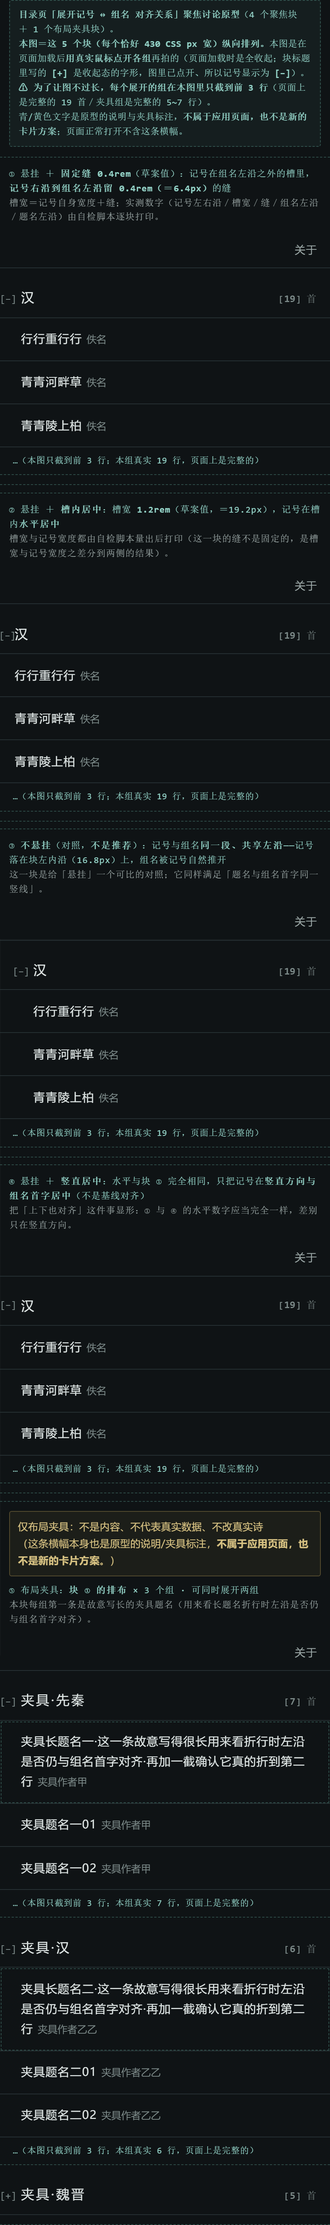
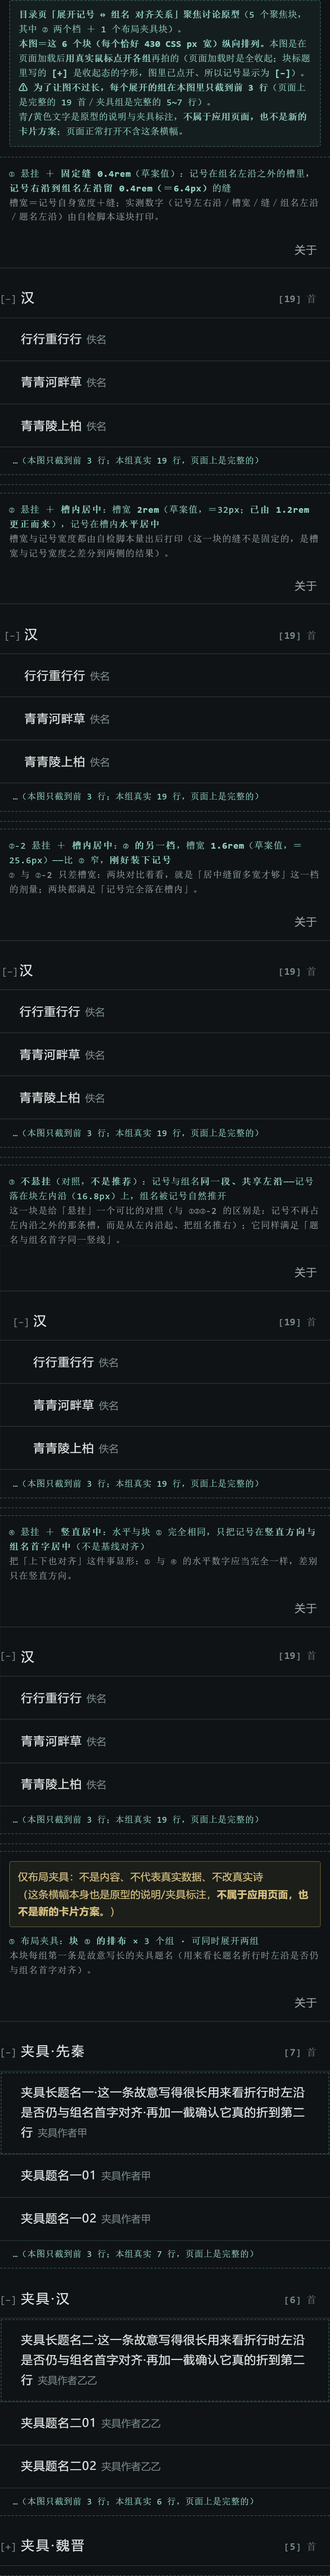
原型返修(记号↔组名对齐): ② 槽宽按负责人决定更正 1.2rem→2rem(1.2rem 比记号宽 21.13px 还窄、实测缝为负=贴住)+另出 1.6rem 档；md 并列两种悬挂口径+改指归档路径；重出 860x6702 图；自检 96 PASS/失败 0
- ② 槽 2rem=32px：记号文字范围[5.44…26.56] 居中(中心=槽中心16) 缝 5.44px(笔画 7.57) 记号完全落在槽内
- ②-2 槽 1.6rem=25.6px(刚好装下)：文字范围[2.23…23.36] 缝 2.23px(笔画 4.37)；两块缝差 3.21=槽宽差的一半 ⇒ 只差槽宽
- 更正来历如实写在 页面/脚本/md 三处：1.2rem 那版实测缝是负的(笔画 1.16px)，不能说成「测得缝更大」
- md §2 并列口径 A(本页：槽从块左沿量起、组名左沿=槽右沿 ⇒ 记号贴屏幕左沿、靠真机页边留白承接)与口径 B(组名钉在左内沿 16.8 ⇒ 记号排版左沿 -10.73px 会跑到屏幕外~10.7px，需左内沿/页边留白 >=27.5px)
- md §8 指向水平轮的路径改为归档路径 items/app-ui/history/round-2026-10-15-hub-horizontal/(归档提交 53ad6c8)，未动归档内任何文件
- 自检新增/改实：六块几何逐项打印、②/②-2「居中+完全落槽内+缝为正」、缝差=槽宽差一半；CHROME_BIN 指错仍 exit2
- 写入范围只有 items/app-ui/prototypes/ 本任务 4 个文件

diff --git a/items/app-ui/prototypes/q-hub-align.html b/items/app-ui/prototypes/q-hub-align.html
@@ -53,7 +53,9 @@
   --block-w: 430px;          /* 验收宽度：真实 430 CSS px（移动口径），不是草案、是任务书给的口径 */
   --edge-x: 1.05rem;         /* 草案值：块的左右内沿（取令牌 --row-pad 的横向分量；「关于」与诗行右沿都落在它上面） */
   --seam-a: 0.4rem;          /* 草案值：块 ① 的固定缝（记号右沿 → 组名左沿）＝ 6.4px */
-  --slot-b: 1.2rem;          /* 草案值：块 ② 的槽宽（记号在槽内水平居中）＝ 19.2px */
+  --slot-b: 2rem;            /* 草案值（**已更正**）：块 ② 的槽宽＝32px —— 上一版这里是 1.2rem＝19.2px，比记号排版宽（21.13px）还窄，实测缝为负、居中后贴住组名，故按负责人 2026-10-15 的决定改实 */
+  --slot-b-alt: 1.6rem;      /* 草案值（② 的另一档）：块 ②-2 的槽宽＝25.6px（刚好装下 21.13px 的记号，两侧各≈2.2px） */
+  --slot-here: 0px;          /* 每个块自己的「居中槽宽」，由 data-slot 选：b2 → var(--slot-b)，b2-2 → var(--slot-b-alt) */
   --inline-gap: 0.35rem;     /* 草案值：块 ③（不悬挂）记号与组名之间的段内间距＝ 5.6px */
   --name-x: 0px;             /* 【参照系】组名左沿相对块左沿的实测偏移，由页面脚本量出后写回（每块各不相同） */
 }
@@ -248,11 +250,13 @@ html[data-shot="1"] .glist > .poemrow:nth-child(n+4) { display: none; }
  */
 .hub[data-mark="hang-gap"] .ghead { padding-left: 0; }
 .hub[data-mark="hang-gap"] .gmark { margin-right: var(--seam-a); }
-/* ② 悬挂 + 槽内居中：槽宽恒为 --slot-b，记号在槽内水平居中（缝＝槽宽与记号宽度之差的一半）。
+/* ② 悬挂 + 槽内居中：槽宽由 --slot-here 给出（块 ② 2rem、块 ②-2 1.6rem），记号在槽内水平居中。
  *   用 flex 居中（而不是 text-align:center）：槽比记号窄时 text-align 会退化成起点对齐，居中就没被表达出来；
  *   flex 的居中在溢出时仍然对称地把记号居中，这一块才是真的「槽内居中」（代价是记号会向槽外两侧溢出）。 */
 .hub[data-mark="hang-center"] .ghead { padding-left: 0; }
-.hub[data-mark="hang-center"] .gmark { width: var(--slot-b); margin-right: 0; display: flex; justify-content: center; }
+.hub[data-mark="hang-center"] .gmark { width: var(--slot-here); margin-right: 0; display: flex; justify-content: center; }
+.hub[data-slot="b"] { --slot-here: var(--slot-b); }
+.hub[data-slot="b-alt"] { --slot-here: var(--slot-b-alt); }
 /* ③ 不悬挂（对照）：记号在块左内沿上、与组名同一段，段内间距 --inline-gap。 */
 .hub[data-mark="inline"] .ghead { padding-left: var(--edge-x); }
 .hub[data-mark="inline"] .gmark { margin-right: var(--inline-gap); }
@@ -281,7 +285,7 @@ html[data-shot="1"] .glist > .poemrow:nth-child(n+4) { display: none; }
 <div class="wrap">
   <div class="phead">
     <p class="ptag">讨论原型 · 不是产品实施 · 不是发布 · 不是已采纳规格</p>
-    <h1>目录页「展开记号 ↔ 组名 <b>对齐关系</b>」聚焦讨论原型 —— 4 个聚焦块 ＋ 1 个布局夹具块</h1>
+    <h1>目录页「展开记号 ↔ 组名 <b>对齐关系</b>」聚焦讨论原型 —— 5 个聚焦块（其中 ② 两个档）＋ 1 个布局夹具块</h1>
     <p>这一页只回答<b>一个问题</b>：<b>记号与组名怎么对齐才不显得「没对齐」？</b>四个聚焦块<b>并列</b>、不排序、不衬托，<b>没有推荐项</b>；<b>选某一块 ≠ 采纳整页规格</b>。</p>
     <p><b>本页固定不变（不在这里重问）：</b></p>
     <ul>
@@ -293,28 +297,33 @@ html[data-shot="1"] .glist > .poemrow:nth-child(n+4) { display: none; }
       <li>信息只有：<b>组名＋数量</b>、<b>诗题＋作者</b>。🚫 不出现：搜索／应用名／笔记标记／题名预览／状态位／版本号。</li>
       <li>四块的<b>记号字号与字距统一</b>（等宽 0.8rem、不设字距）—— 这样量出来的「缝」才是真实可见的缝，不是字距的空白。</li>
     </ul>
-    <p><b>四个聚焦块各变什么</b>（其余一切相同）：① 悬挂＋<b>固定缝 0.4rem</b>（草案值）· ② 悬挂＋<b>槽内居中</b>（槽宽 1.2rem，草案值）· ③ <b>不悬挂</b>（对照，不是推荐）· ④ 悬挂＋<b>竖直居中</b>（水平与 ① 完全相同，只改竖直关系）· ⑤ 用 ① 的排布 × 3 个组的<b>布局夹具</b>。</p>
+    <p><b>五个聚焦块各变什么</b>（其余一切相同）：① 悬挂＋<b>固定缝 0.4rem</b>（草案值）· ② 悬挂＋<b>槽内居中</b>（槽宽 2rem，草案值）· ②-2 悬挂＋<b>槽内居中</b>（槽宽 1.6rem，草案值，即 ② 的另一档——刚好装下记号）· ③ <b>不悬挂</b>（对照，不是推荐）· ④ 悬挂＋<b>竖直居中</b>（水平与 ① 完全相同，只改竖直关系）· ⑤ 用 ① 的排布 × 3 个组的<b>布局夹具</b>。</p>
+    <p class="pnote">⚠ <b>一处更正（负责人选值偏窄，已改实）</b>：② 的槽宽上一版取的是 <b>1.2rem（19.2px）</b>，它比记号自身的排版宽（<b>21.13px</b>）<b>还窄</b> ⇒ 实测上「居中后缝自然变大」<b>不成立</b>（缝 −0.97px、实心笔画 1.16px，看图是 <code>[−]汉</code> 贴住）。本轮按负责人 2026-10-15 的决定改为 <b>2rem</b>，并另出 <b>1.6rem</b> 一档；两个槽宽都大于记号宽，「居中且留缝」才真正成立（实测数字见同目录 <code>q-hub-align.md</code>）。</p>
     <p><b>本页对「悬挂／不悬挂」的实现口径</b>（写清，免得误读）：<b>悬挂</b>＝记号的槽<b>从块左沿（0）量起</b>、<b>组名左沿 = 槽右沿</b>，所以记号落在内容左内沿（<code>--edge-x</code>＝16.8px）<b>之外</b>；<b>不悬挂</b>＝记号落在<b>块左内沿上</b>（与「关于」同一条竖线）、组名被记号自然推开（块 ③ 的对照）。两种口径下诗目都是「题名左沿 = 组名左沿」。</p>
-    <p>间距数字：<b>块宽 430 CSS px</b>（任务书给的验收口径，不是草案）；<code>--edge-x 1.05rem</code>（沿用令牌 <code>--row-pad</code> 的横向分量）、<code>--seam-a 0.4rem</code>、<code>--slot-b 1.2rem</code>、<code>--inline-gap 0.35rem</code> 是<b>草案值</b>（规范里没有这些值）。四块的实测数字由自检脚本打印，也写在本页同目录的 <code>q-hub-align.md</code> 里。</p>
-    <p>行为（四块＋夹具块一致）：首次进入<b>全部收起</b>（单组也收起）· <b>整个组头可点</b>（组名／空白／数量／记号任一处）· 各组<b>独立</b>展开（<b>可同时展开两组</b>，不是手风琴）。每块都可点，都能看到<b>收起与展开两种状态</b>。</p>
+    <p>间距数字：<b>块宽 430 CSS px</b>（任务书给的验收口径，不是草案）；<code>--edge-x 1.05rem</code>（沿用令牌 <code>--row-pad</code> 的横向分量）、<code>--seam-a 0.4rem</code>、<code>--slot-b 2rem</code>、<code>--slot-b-alt 1.6rem</code>、<code>--inline-gap 0.35rem</code> 是<b>草案值</b>（规范里没有这些值）。五个聚焦块＋夹具块的实测数字由自检脚本打印，也写在本页同目录的 <code>q-hub-align.md</code> 里。</p>
+    <p>行为（五个聚焦块＋夹具块一致）：首次进入<b>全部收起</b>（单组也收起）· <b>整个组头可点</b>（组名／空白／数量／记号任一处）· 各组<b>独立</b>展开（<b>可同时展开两组</b>，不是手风琴）。每块都可点，都能看到<b>收起与展开两种状态</b>。</p>
     <p class="pnote">⚠ 这一页上的说明文字 —— 含本段、下面每个块的标题、以及夹具横幅 —— <b>是原型的说明/夹具标注，不属于应用页面，也不是新的卡片方案。</b></p>
   </div>
   <section class="psection" id="blocks">
-    <h2>【本轮的 4 个聚焦块 ＋ 1 个布局夹具块】① 悬挂＋固定缝 ② 悬挂＋槽内居中 ③ 不悬挂（对照） ④ 悬挂＋竖直居中 ⑤ 夹具</h2>
-    <p class="sub">五块各自独立、都在真实 430 CSS px 宽下渲染，都可点（首态全收起）。① ② ③ ④ 用<b>真实内容</b>（汉·19 首），⑤ 用<b>多组夹具</b>。</p>
+    <h2>【本轮的 5 个聚焦块（② 两个档）＋ 1 个布局夹具块】① 悬挂＋固定缝 ② 悬挂＋槽内居中（2rem） ②-2 悬挂＋槽内居中（1.6rem） ③ 不悬挂（对照） ④ 悬挂＋竖直居中 ⑤ 夹具</h2>
+    <p class="sub">六块各自独立、都在真实 430 CSS px 宽下渲染，都可点（首态全收起）。①②②-2③④ 用<b>真实内容</b>（汉·19 首），⑤ 用<b>多组夹具</b>。</p>
     <div class="shotframe" data-shotframe>
-      <div class="shotbanner"><b>目录页「展开记号 ↔ 组名 对齐关系」聚焦讨论原型</b>（4 个聚焦块 ＋ 1 个布局夹具块）。<br><b>本图＝这 5 个块（每个恰好 430 CSS px 宽）纵向排列。</b>本图是在页面加载后<b>用真实鼠标点开各组</b>再拍的（页面加载时是全收起；块标题里写的 <b>[+]</b> 是收起态的字形，图里已点开、所以记号显示为 <b>[−]</b>）。<br><b>⚠ 为了让图不过长，每个展开的组在本图里只截到前 3 行</b>（页面上是完整的 19 首／夹具组是完整的 5~7 行）。<br>青/黄色文字是原型的说明与夹具标注，<b>不属于应用页面，也不是新的卡片方案</b>；页面正常打开不含这条横幅。</div>
+      <div class="shotbanner"><b>目录页「展开记号 ↔ 组名 对齐关系」聚焦讨论原型</b>（5 个聚焦块，其中 ② 两个档 ＋ 1 个布局夹具块）。<br><b>本图＝这 6 个块（每个恰好 430 CSS px 宽）纵向排列。</b>本图是在页面加载后<b>用真实鼠标点开各组</b>再拍的（页面加载时是全收起；块标题里写的 <b>[+]</b> 是收起态的字形，图里已点开、所以记号显示为 <b>[−]</b>）。<br><b>⚠ 为了让图不过长，每个展开的组在本图里只截到前 3 行</b>（页面上是完整的 19 首／夹具组是完整的 5~7 行）。<br>青/黄色文字是原型的说明与夹具标注，<b>不属于应用页面，也不是新的卡片方案</b>；页面正常打开不含这条横幅。</div>
       <div class="rack">
     <div class="inst" data-block="b1">
       <div class="icap">① 悬挂 ＋ <b>固定缝 0.4rem</b>（草案值）：记号在组名左沿之外的槽里，<b>记号右沿到组名左沿留 0.4rem（＝6.4px）</b>的缝<em>槽宽＝记号自身宽度＋缝；实测数字（记号左右沿／槽宽／缝／组名左沿／题名左沿）由自检脚本逐块打印。</em></div>
       <div data-mount="b1"></div>
     </div>
     <div class="inst" data-block="b2">
-      <div class="icap">② 悬挂 ＋ <b>槽内居中</b>：槽宽 <b>1.2rem</b>（草案值，＝19.2px），记号在槽内<b>水平居中</b><em>槽宽与记号宽度都由自检脚本量出后打印（这一块的缝不是固定的，是槽宽与记号宽度之差分到两侧的结果）。</em></div>
+      <div class="icap">② 悬挂 ＋ <b>槽内居中</b>：槽宽 <b>2rem</b>（草案值，＝32px；<b>已由 1.2rem 更正而来</b>），记号在槽内<b>水平居中</b><em>槽宽与记号宽度都由自检脚本量出后打印（这一块的缝不是固定的，是槽宽与记号宽度之差分到两侧的结果）。</em></div>
       <div data-mount="b2"></div>
     </div>
+    <div class="inst" data-block="b2-2">
+      <div class="icap">②-2 悬挂 ＋ <b>槽内居中</b>：<b>② 的另一档</b>，槽宽 <b>1.6rem</b>（草案值，＝25.6px）——比 ② 窄，<b>刚好装下记号</b><em>② 与 ②-2 只差槽宽：两块对比着看，就是「居中缝留多宽才够」这一档的剂量；两块都满足「记号完全落在槽内」。</em></div>
+      <div data-mount="b2-2"></div>
+    </div>
     <div class="inst" data-block="b3">
-      <div class="icap">③ <b>不悬挂</b>（对照，<b>不是推荐</b>）：记号与组名<b>同一段、共享左沿</b>——记号落在块左内沿（16.8px）上，组名被记号自然推开<em>这一块是给「悬挂」一个可比的对照；它同样满足「题名与组名首字同一竖线」。</em></div>
+      <div class="icap">③ <b>不悬挂</b>（对照，<b>不是推荐</b>）：记号与组名<b>同一段、共享左沿</b>——记号落在块左内沿（16.8px）上，组名被记号自然推开<em>这一块是给「悬挂」一个可比的对照（与 ①②②-2 的区别是：记号不再占左内沿之外的那条槽，而是从左内沿起、把组名推右）；它同样满足「题名与组名首字同一竖线」。</em></div>
       <div data-mount="b3"></div>
     </div>
     <div class="inst" data-block="b4">
@@ -391,6 +400,7 @@ html[data-shot="1"] .glist > .poemrow:nth-child(n+4) { display: none; }
     root.dataset.block = spec.block;
     root.dataset.mark = spec.mark;
     root.dataset.valign = spec.valign;
+    if (spec.slot) root.dataset.slot = spec.slot;
 
     // 顶部只此一项入口：「关于」
     var top = el('div', 'topline');
@@ -497,7 +507,8 @@ html[data-shot="1"] .glist > .poemrow:nth-child(n+4) { display: none; }
     "page": "align",
     "blocks": [
       { "inst": "b1", "block": "hang-gap", "mark": "hang-gap", "valign": "baseline", "groups": "real", "open": [] },
-      { "inst": "b2", "block": "hang-center", "mark": "hang-center", "valign": "baseline", "groups": "real", "open": [] },
+      { "inst": "b2", "block": "hang-center-2rem", "mark": "hang-center", "slot": "b", "valign": "baseline", "groups": "real", "open": [] },
+      { "inst": "b2-2", "block": "hang-center-16rem", "mark": "hang-center", "slot": "b-alt", "valign": "baseline", "groups": "real", "open": [] },
       { "inst": "b3", "block": "inline", "mark": "inline", "valign": "baseline", "groups": "real", "open": [] },
       { "inst": "b4", "block": "hang-gap-center", "mark": "hang-gap", "valign": "center", "groups": "real", "open": [] },
       { "inst": "b5", "block": "fx", "mark": "hang-gap", "valign": "baseline", "groups": "fixture", "open": [] }
